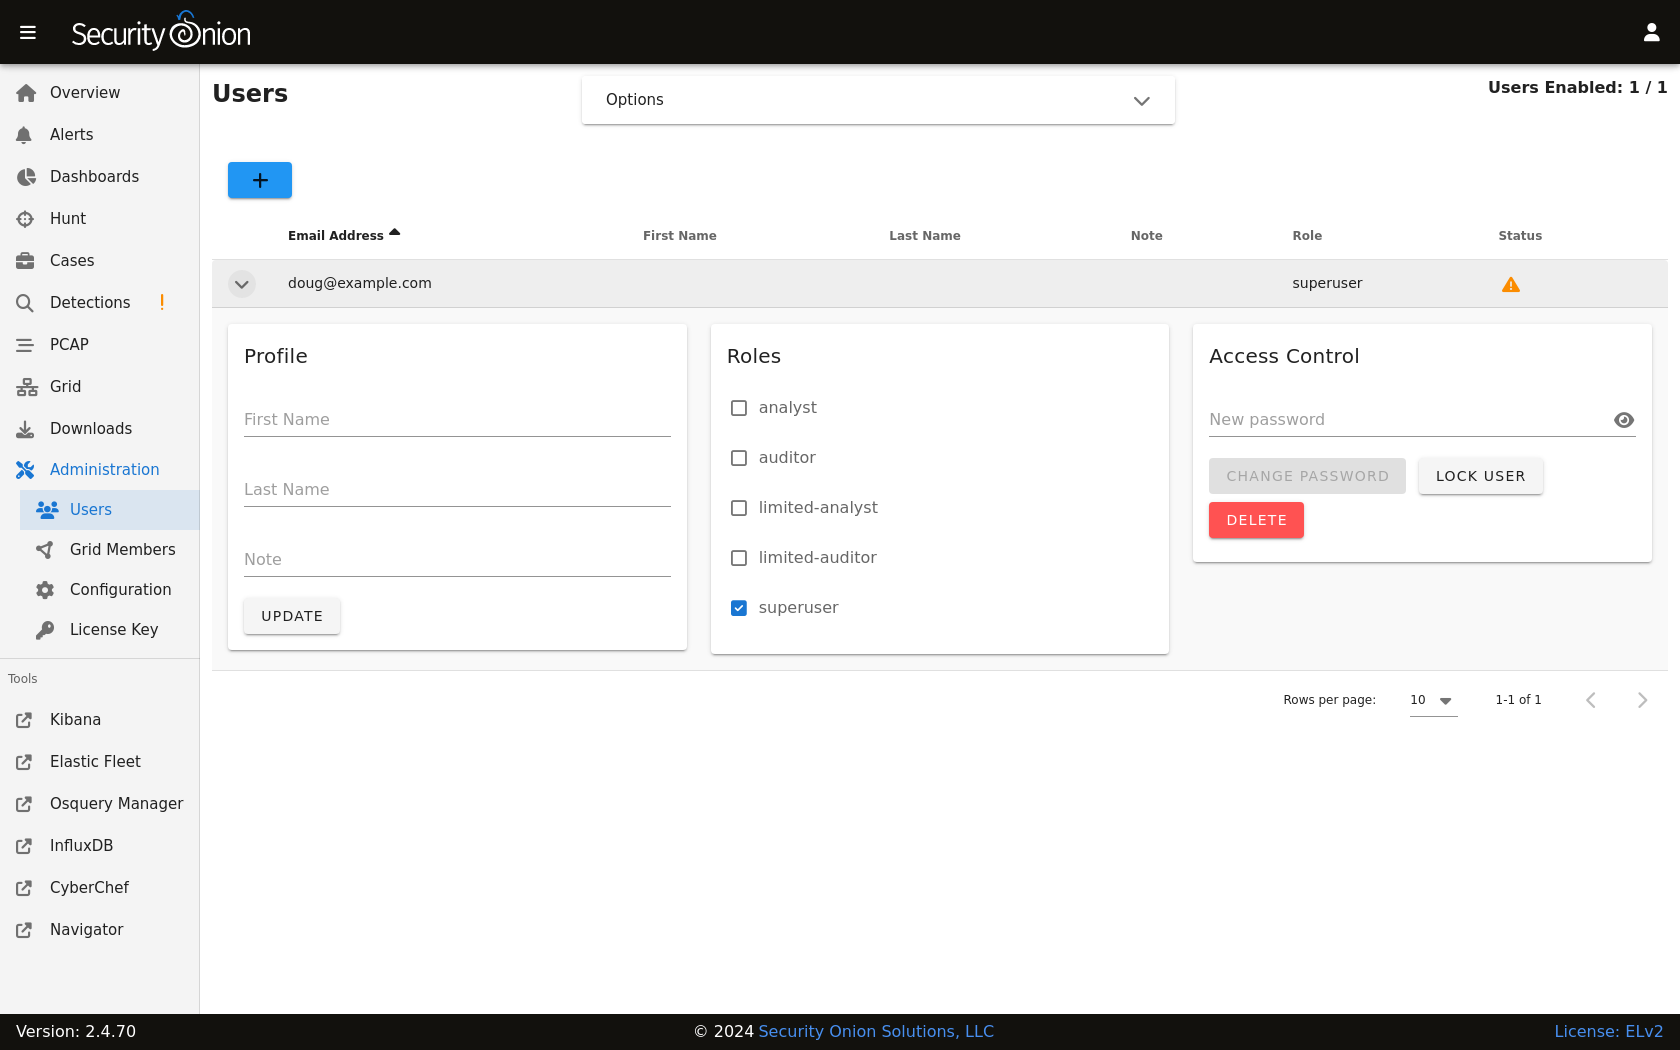
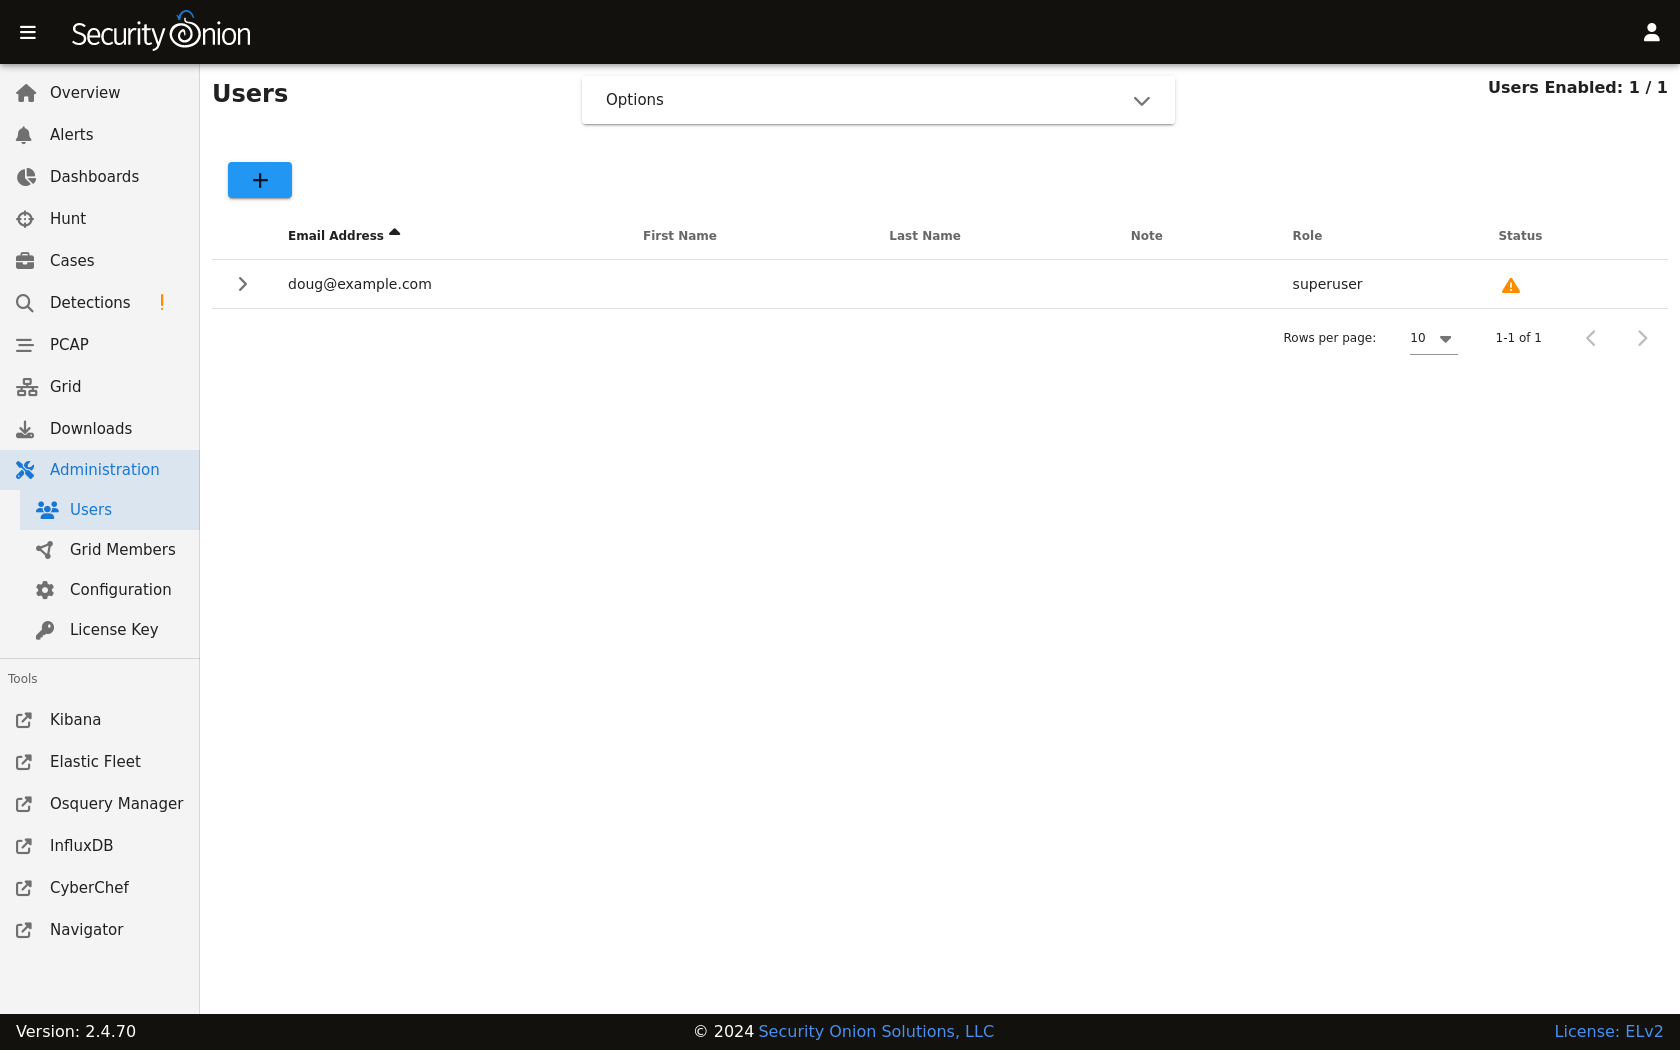
remove old screenshots

diff --git a/detections.rst b/detections.rst
@@ -16,22 +16,12 @@ Starting in Security Onion 2.4.70, :ref:`soc` includes our Detections interface 
 
     Check out our Detections sneak peek video at https://youtu.be/oxR4q53N6OI!
 
-Options
--------
-
-Starting at the top of the main Detections page, the Options menu allows you to synchronize a particular detection engine such as :ref:`suricata`, :ref:`strelka`, or :ref:`elastalert`. Once you've selected the detection engine that you want to synchronize, you can then click either the ``DIFFERENTIAL UPDATE`` or ``FULL UPDATE`` button. 
-
-The differential update is a lightweight sync that will skip the thorough sync and comparison of each individual rule. For example, with Suricata it will compute and compare the hash of the source rule list with the hash of the deployed rules, and only if there's a mismatch will it perform the full sync. A full sync can involve inspecting and comparing individual rules, of which there can be thousands. This more thorough sync can take much longer than the differential sync. Note that each engine has its own unique synchronization process.
-
 Rule Engine Status
 ------------------
 
-To the right of the Options menu is a count of detections that matched the search query. Underneath the count is a status indicator for the detection engines. The status can show whether a sync is in process, as well as whether the engine has detected errors. 
+The upper right corner shows a count of detections that matched the search query. Underneath the count is a status indicator for the detection engines. The status can show whether a sync is in process, as well as whether the engine has detected errors. 
 
-.. image:: images/detections_status.png
-  :target: _images/detections_status.png
-
-Below is a list of statuses and associated explanations.
+Here is the list of possible status messages and what they mean:
 
 - **Pending**: The browser is waiting for the server to send an initial status report.
 - **Import Pending**: The import will start once the system stabilizes, usually within twenty minutes. Imports take place only once, after upgrading to Security Onion 2.4.70+.
@@ -43,9 +33,16 @@ Below is a list of statuses and associated explanations.
 - **Rule Mismatch**: An integrity check process detected a mismatch between the deployed rules and the enabled rules. The SOC log will note the specific mismatched rules.
 - **OK**: No known issues with the rule engine.
 
-Clicking the status text will navigate to the Hunt page and attempt to find related logs.
+Clicking the status text will navigate to :ref:`hunt` and attempt to find related logs.
 
 The Detections menu option on the left side of the application will show an exclamation mark if there is a recent failure in any of the detection engines. In this situation the web browser tab will also show an exclamation indicator. If no failures are detected, and if any of the detection engines has an import pending or is performing a rule import, synchronization, or migration, then a blue hourglass will appear next to the Detections menu option.
+
+Options
+-------
+
+To the left of the status area, the Options menu allows you to synchronize a particular detection engine such as :ref:`suricata`, :ref:`strelka`, or :ref:`elastalert`. Once you've selected the detection engine that you want to synchronize, you can then click either the ``DIFFERENTIAL UPDATE`` or ``FULL UPDATE`` button. 
+
+The differential update is a lightweight sync that will skip the thorough sync and comparison of each individual rule. For example, with :ref:`suricata` it will compute and compare the hash of the source rule list with the hash of the deployed rules, and only if there's a mismatch will it perform the full sync. A full sync can involve inspecting and comparing individual rules, of which there can be thousands. This more thorough sync can take much longer than the differential sync. Note that each engine has its own unique synchronization process.
 
 Query Bar
 ---------

diff --git a/jupyter.rst b/jupyter.rst
@@ -11,10 +11,7 @@ Security Onion Setup
 
 **Create Jupyter User**
 
-As a best practice, you'll want to create a dedicated Jupyter notebook user with just read-only access to the data inside of :ref:`elasticsearch`. In :ref:`kibana`, navigate to Stack Management -> Users and create the user with appropriate permissions:
-
-.. image:: images/jupyter-user.png
-  :target:  _images/jupyter-user.png
+As a best practice, you'll want to create a dedicated Jupyter notebook user with just read-only access to the data inside of :ref:`elasticsearch`. In :ref:`kibana`, navigate to Stack Management -> Users and create the user with appropriate permissions.
 
 **Security Onion Firewall**
 
@@ -76,10 +73,7 @@ In the next cell, we'll specify the :ref:`elasticsearch` instance address and po
 
 Again, we'll execute the code within the cell, by pressing **Shift+ENTER**.
 
-We may see a warning like the following due to the fact that we are not performing verification for certificates:
-
-.. image:: images/jupyter-warning.png
-  :target:  _images/jupyter-warning.png
+We may see a certificate warning due to the fact that we are not performing verification for certificates.
 
 For convenience during our testing, we can disable the warning in future runs, by pasting the following the next cell and executing it with **Shift+ENTER**:
 
@@ -105,10 +99,7 @@ Finally, we'll submit our query in the next cell using the following:
     df = pd.DataFrame((d.to_dict() for d in s.scan()))
   df
 
-The above code simply takes the results and converts them to a Python dict:
-
-.. image:: images/jupyter-python.png
-  :target:  _images/jupyter-python.png
+The above code simply takes the results and converts them to a Python dict.
 
 We can select a few fields, and modify the column values if we like:
 
@@ -120,9 +111,6 @@ We can select a few fields, and modify the column values if we like:
   df.columns=['Dataset','Executable', 'Target']
   df
 
-Then we end up with something a little bit more targeted (you may need to adjust ``pd.options.display.max_colwidth`` for it to display appropriately) :
-
-.. image:: images/jupyter-targeted.png
-  :target:  _images/jupyter-targeted.png
+Then we end up with something a little bit more targeted (you may need to adjust ``pd.options.display.max_colwidth`` for it to display appropriately).
 
 Obviously, there is much more we can do with this data other than just running the above example code. Happy hunting!

diff --git a/administration.rst b/administration.rst
@@ -10,19 +10,19 @@ Users
 
 The Users page shows all user accounts that have been created for the grid.
 
-.. image:: images/users.png
-  :target: _images/users.png
+.. image:: images/81_users.png
+  :target: _images/81_users.png
 
 The Note column allows administrators to include a short note on a user's account.
 
 The Role column lists roles assigned to the user as defined in the :ref:`rbac` section.
 
-The Status column will show different icons depending on the status of the account. In the screenshot above:
+The Status column will show different icons depending on the status of the account:
 
-- the first account is enabled and has TOTP :ref:`mfa` enabled
-- the second account is enabled and has changed their password but does not have :ref:`mfa` enabled
-- the third account is enabled but has not yet changed their password and does not have :ref:`mfa` enabled
-- the fourth account is locked
+- orange exclamation point - account enabled but has not yet changed their password and does not have :ref:`mfa` enabled
+- blue icon with shield - account enabled with :ref:`mfa` enabled
+- no icon - account enabled and has changed their password but does not have :ref:`mfa` enabled
+- grey user with slash - account locked
   
 Hovering over the icon in the Status column will show you these details as well.
 

diff --git a/passwords.rst b/passwords.rst
@@ -26,12 +26,7 @@ Password Logins to SOC
 
 Log into :ref:`soc` using the username and password you created in the Setup wizard or the username and password provided by your administrator.
 
-You can change your password in :ref:`soc` by clicking the user icon in the upper right corner, clicking ``Settings``, and then going to the ``Security`` tab:
-
-.. image:: images/password.png
-  :target: _images/password.png
-
-Please note that, due to technical limitations, if you change your SOC password here it will not update your password in :ref:`influxdb`. However, resetting your password via :ref:`administration` will reset your :ref:`influxdb` password.
+You can change your password in :ref:`soc` by clicking the user icon in the upper right corner, clicking ``Settings``, and then going to the ``Security`` tab. Please note that, due to technical limitations, if you change your SOC password here it will not update your password in :ref:`influxdb`. However, resetting your password via :ref:`administration` will reset your :ref:`influxdb` password.
 
 If you've forgotten your SOC password, an administrator can change it using the :ref:`administration` interface.
 

diff --git a/disabling-accounts.rst b/disabling-accounts.rst
@@ -17,11 +17,11 @@ For more information, please see passwd manual by typing ``man passwd`` and the 
 SOC
 ---
 
-If you need to disable an account in :ref:`soc`, you can go to the :ref:`administration` interface, expand the user account, and click the ``LOCK USER`` button.
+If you need to disable an account in :ref:`soc`, you can go to :ref:`administration` --> Users, expand the user account, and click the ``LOCK USER`` button.
 
-After disabling a user account, the :ref:`administration` page will show the disabled user account with a disabled icon in the Status column:
+.. image:: images/82_users_detail.png
+  :target: _images/82_users_detail.png
 
-.. image:: images/users.png
-  :target: _images/users.png
+After disabling a user account, it will be shown with a disabled icon in the Status column.
 
 For more information about the Users page, please see the :ref:`administration` section.

diff --git a/adding-accounts.rst b/adding-accounts.rst
@@ -12,9 +12,11 @@ If you need to add a new OS user account, you can use the ``adduser`` command.  
 
     sudo adduser tom
 
-We recommend creating usernames in lower case for consistency.
+.. tip::
 
-For more information, please see the adduser manual by typing ``man adduser``.
+        We recommend creating OS usernames in lower case for consistency.
+
+For more information adding OS user accounts, please see the adduser manual by typing ``man adduser``.
 
 SOC
 ---
@@ -25,6 +27,9 @@ If you need to add a new account to :ref:`soc`, navigate to the :ref:`administra
   :target: _images/81_users.png
 
 Click the ``+`` button, fill out the necessary information, and then click the ``ADD`` button.
+
+.. image:: images/83_users_add.png
+  :target: _images/83_users_add.png
 
 .. tip::
 

diff --git a/soc-logs.rst b/soc-logs.rst
@@ -14,10 +14,7 @@ SOC auth is handled by Kratos and you can read more about that at https://github
 
         sudo zgrep "Identity authenticated successfully and was issued an Ory Kratos Session Cookie" /opt/so/log/kratos/*
 
-Those logs should be ingested into :ref:`elasticsearch` and available for searching in :ref:`dashboards`, :ref:`hunt`, and :ref:`kibana`. Both :ref:`dashboards` and :ref:`hunt` have pre-defined queries for SOC auth logs.
-
-.. image:: images/soc-logins.png
-  :target: _images/soc-logins.png
+Those logs are ingested into :ref:`elasticsearch` and available for searching in :ref:`dashboards`, :ref:`hunt`, and :ref:`kibana`. Both :ref:`dashboards` and :ref:`hunt` have pre-defined queries for SOC auth logs.
 
 identity_id
 ~~~~~~~~~~~

diff --git a/listing-accounts.rst b/listing-accounts.rst
@@ -23,7 +23,12 @@ SOC
 
 You can get a list of users in :ref:`soc` by navigating to the :ref:`administration` interface and then clicking ``Users``:
 
-.. image:: images/users.png
-  :target: _images/users.png
+.. image:: images/81_users.png
+  :target: _images/81_users.png
+
+To see detail on an individual user account, click the button on the left side of the row to expand the user account:
+
+.. image:: images/82_users_detail.png
+  :target: _images/82_users_detail.png
 
 For more information about the Users page, please see the :ref:`administration` section.

diff --git a/dashboards.rst b/dashboards.rst
@@ -108,9 +108,6 @@ Statistics
 
 The bottom left corner of the page shows statistics about the current query including the speed of the backend data fetch and the total round trip time.
 
-.. image:: images/dashboards-statistics.png
-  :target: _images/dashboards-statistics.png
-
 Context Menu
 ------------
 
